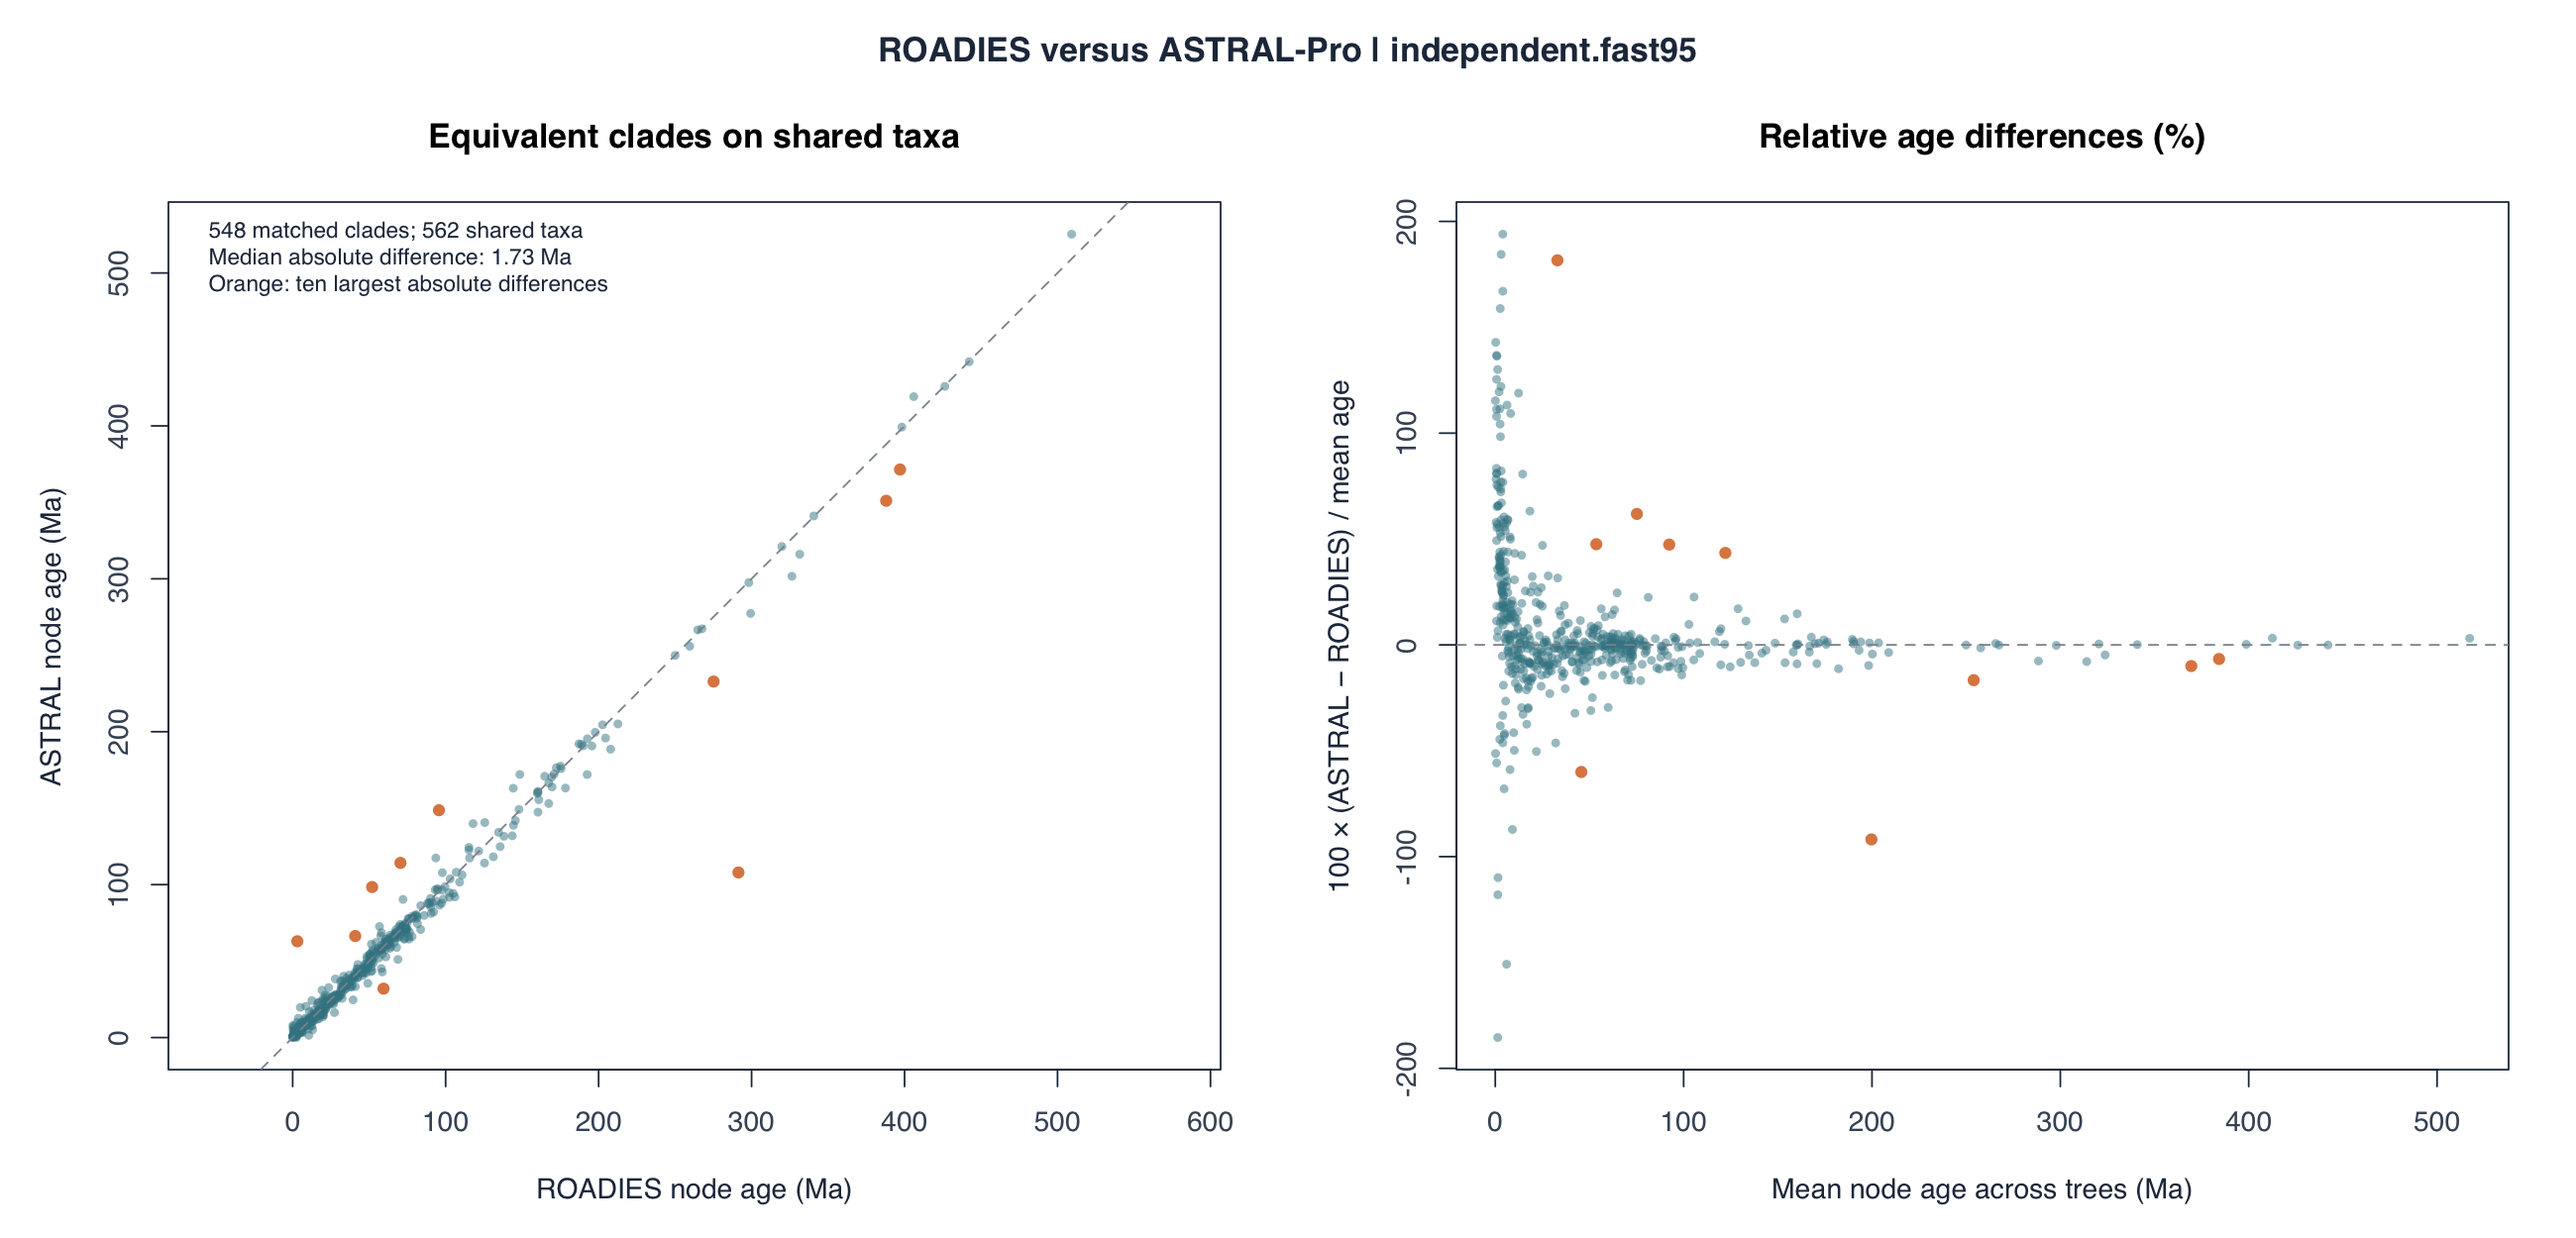
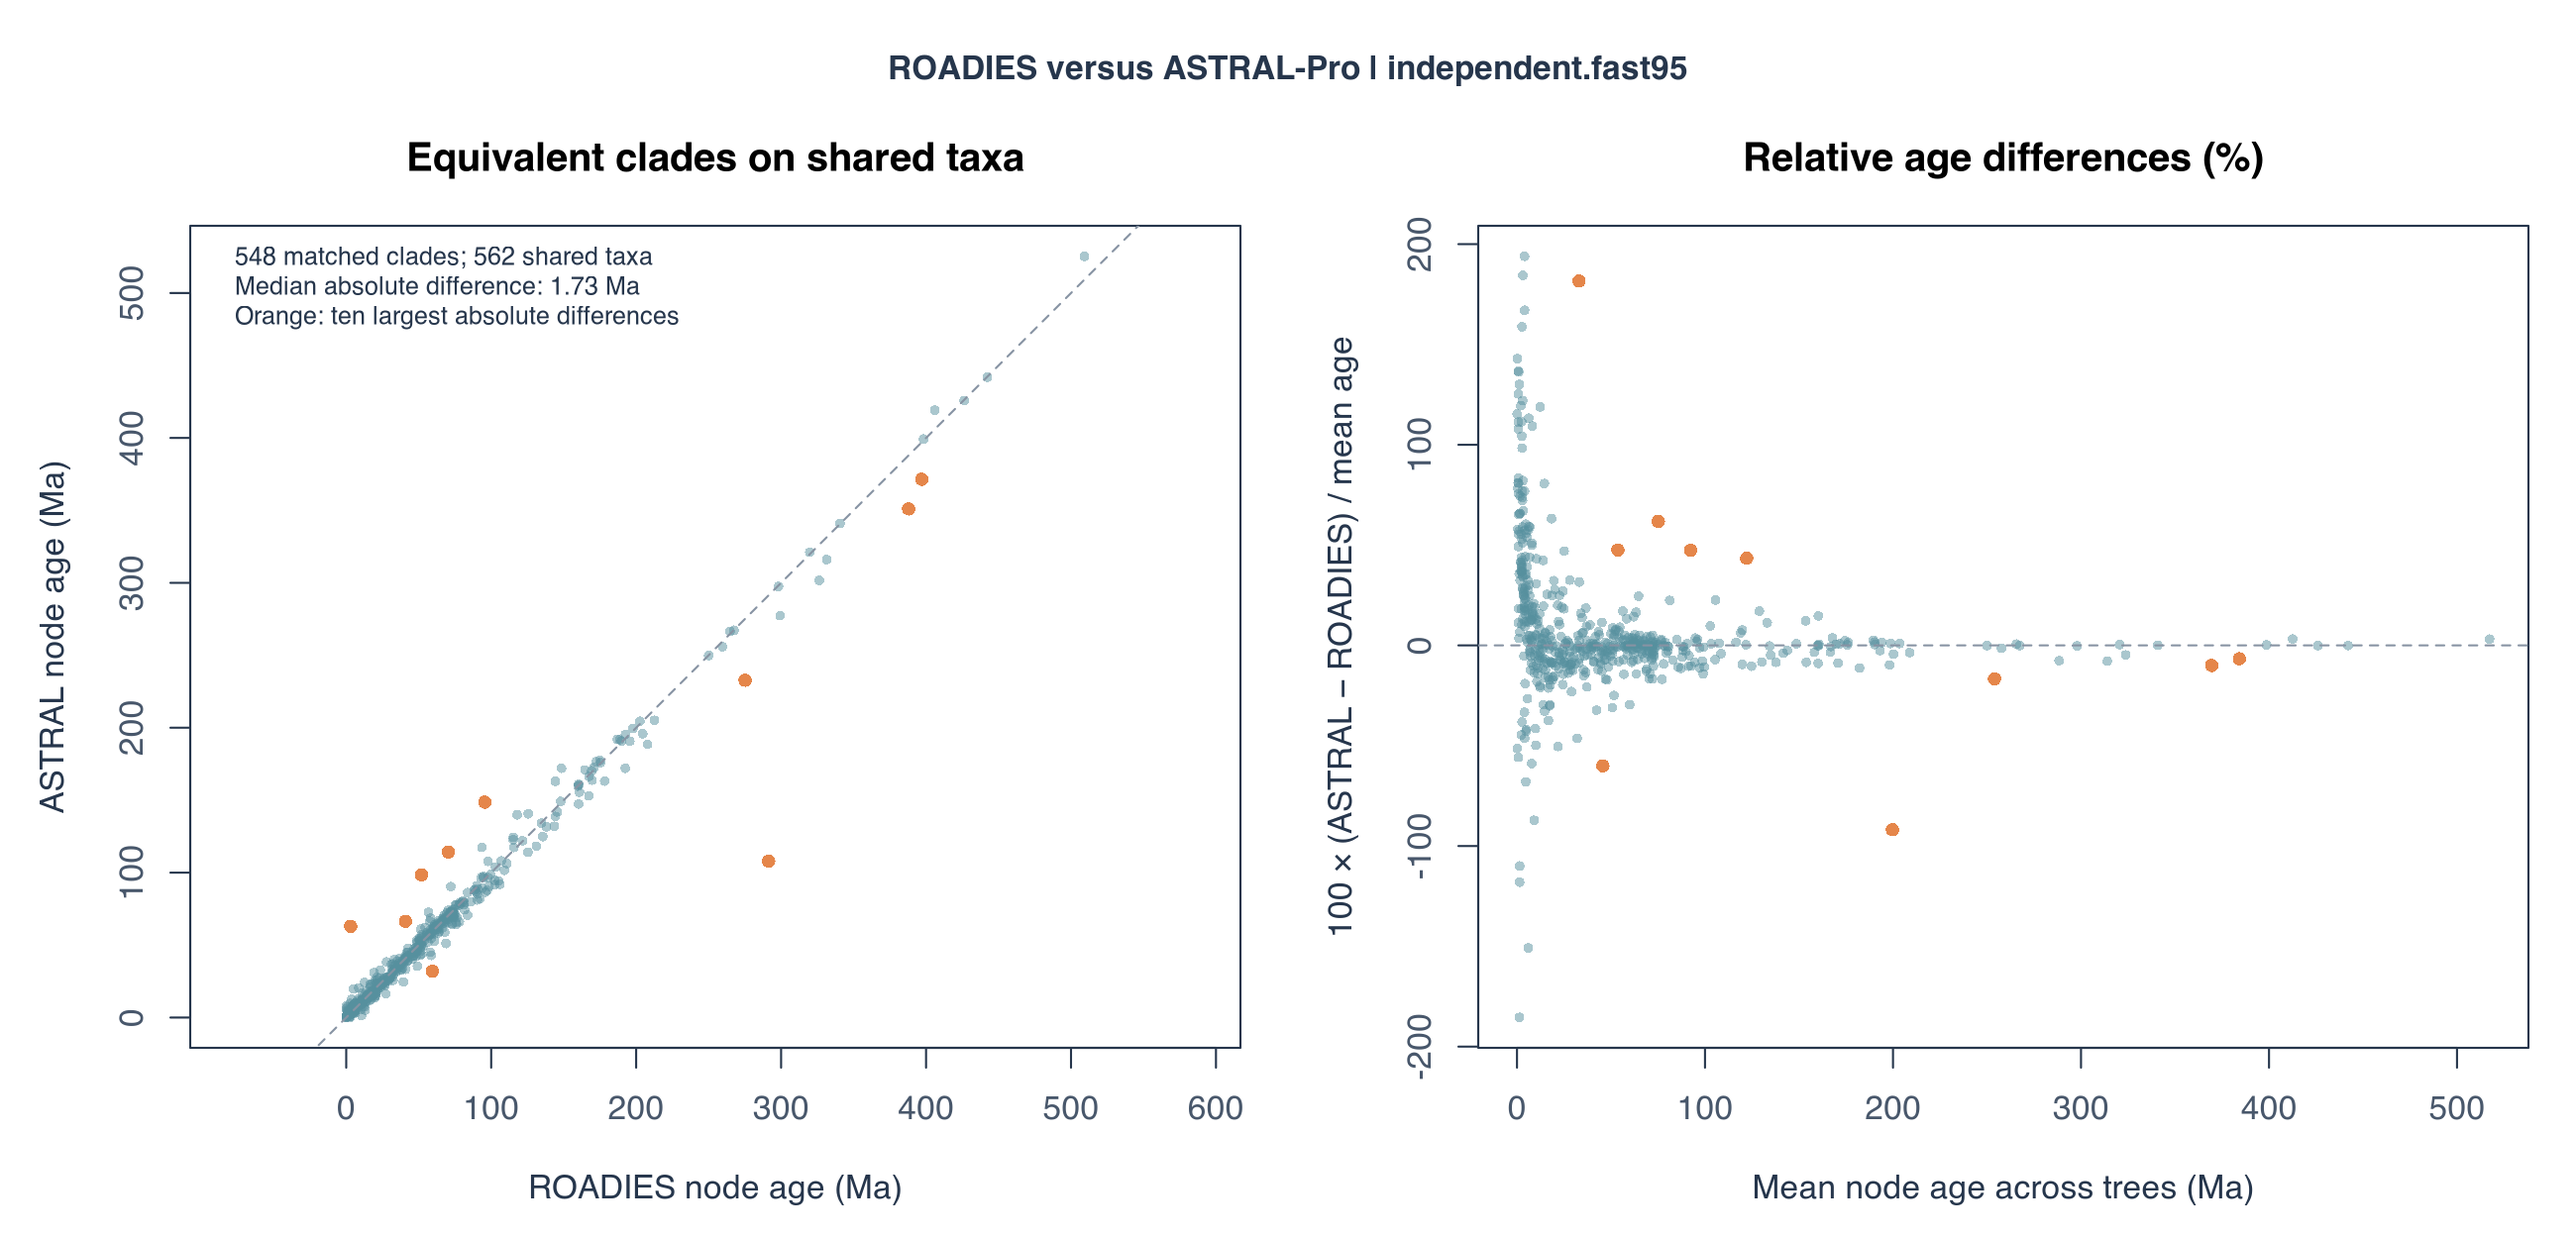
polish
updates

diff --git a/dating/treePL/treepl_benchmark.py b/dating/treePL/treepl_benchmark.py
@@ -221,11 +221,18 @@ class Sweep:
         self.phase='Optimizer speed screen at smoothing 1'; self.write()
         profiles=[dict(opt=i,optad=i,optcvad=i,moredetail=0,moredetailad=0,moredetailcvad=0) for i in range(6)]
         jobs=[self.job(0.,rep,0,p,'screen') for p in profiles for rep in range(4)]
-        with ThreadPoolExecutor(max_workers=self.a.workers) as pool:
+        pool=ThreadPoolExecutor(max_workers=self.a.workers)
+        try:
             futures=[pool.submit(fit,j) for j in jobs]
             for future in as_completed(futures):
                 row=future.result(); self.races.append(row); self.write()
                 print(f"screen optimizer={row['profile']['opt']} replicate={row['replicate']+1} {row['status']} {row['seconds']:.1f}s",flush=True)
+        except BaseException:
+            pool.shutdown(wait=False,cancel_futures=True)
+            with LOCK:
+                for proc in list(ACTIVE): proc.terminate()
+            raise
+        finally: pool.shutdown(wait=True,cancel_futures=True)
         valid={i:sorted((r for r in self.races if r['profile']['opt']==i and r['status']=='complete'),key=lambda r:r['replicate']) for i in range(6)}
         complete=[i for i in range(6) if len(valid[i])==4]
         if not complete: raise RuntimeError('No optimizer completed all four screening fits')
@@ -357,11 +364,18 @@ def run_final(run, config, treepl, workers, on_start=lambda:None):
     jobs=[dict(x=x,profile=p,config=text,tree=tree,binary=binary,seed=seed,start=start,
                folder=str(out/f'optimizer-{p["opt"]}')) for p in profiles]
     screened=[]
-    with ThreadPoolExecutor(max_workers=workers) as pool:
+    pool=ThreadPoolExecutor(max_workers=workers)
+    try:
         futures=[pool.submit(run_job,job) for job in jobs]
         for future in as_completed(futures):
             row=future.result();screened.append(row);atomic_json(out/'optimizer-results.json',screened)
             print(f"final optimizer={row['profile']['opt']} {row['status']} objective={row['objective']} {row['seconds']:.1f}s",flush=True)
+    except BaseException:
+        pool.shutdown(wait=False,cancel_futures=True)
+        with LOCK:
+            for proc in list(ACTIVE): proc.terminate()
+        raise
+    finally: pool.shutdown(wait=True,cancel_futures=True)
     valid_screen=[r for r in screened if r['status']=='complete']
     if not valid_screen: raise RuntimeError('All final optimizer fits failed')
     best=min(valid_screen,key=lambda r:(r['objective'],r['profile']['opt']!=baseline['opt'],r['profile']['opt'])); flag_rows=[]

diff --git a/calibrations/README.md b/calibrations/README.md
@@ -2,6 +2,8 @@
 
 This is the current set of **108** calibrations, of which **105** apply to the [ROADIES v0.0.0](https://github.com/VGP/vgp-tree-release/blob/master/v0.0.0/roadies_v1.1.16b.nwk) tree, **100** apply to the [ASTRAL v0.1.1](https://github.com/VGP/vgp-tree-release/blob/master/v0.1.1/astralpro.l6p1.tre) tree, and **97** are shared. Detailed justifications following the best practices of [Parham et al. (2012)](https://academic.oup.com/sysbio/article-abstract/61/2/346/1647963) are given on the linked page for each set. As our terminal sampling consists entirely of extant species, we are almost universally addressing and calibrating the ages of crown groups (i.e., the MRCA of extant species) in all instances unless otherwise noted as the stem or total-group age.
 
+Calibration bounds are rounded to one decimal place for analysis.
+
 CAL identifiers refer to records in the [master calibration list](./master_calibrations.csv). After updating the list, run `Rscript dating/treePL/calibration_config.R --update` from the repository root to update both treePL configs. The treePL launcher also does this automatically before running analyses.
 
 Published divergence-time comparisons are collected in the [likelihood checkpoints](../checkpoints/README.md).

diff --git a/dating/mdcat/README.md b/dating/mdcat/README.md
@@ -29,6 +29,12 @@ The [ROADIES node-age table](roadies_v1.1.16b/roadies_v1.1.16b.independent.fast9
 
 ## Node-age comparison
 
+Regenerate the comparison figure and table from both dated trees:
+
+```sh
+Rscript dating/mdcat/plot_mdcat.R comparison
+```
+
 The comparison matches 548 clades by their descendant taxa among the 562 taxa shared by ROADIES and ASTRAL. The left panel compares their mean node ages against a line of equality. The right panel shows the relative age difference, calculated as `100 × (ASTRAL − ROADIES) / mean age`, where the denominator is the average of the two estimates. Positive values indicate older ASTRAL estimates. Orange points mark the ten largest absolute age differences; the median absolute difference is 1.73 Ma.
 
 ![ROADIES–ASTRAL node-age comparison](roadies_vs_astral.independent.fast95.comparison.png)
